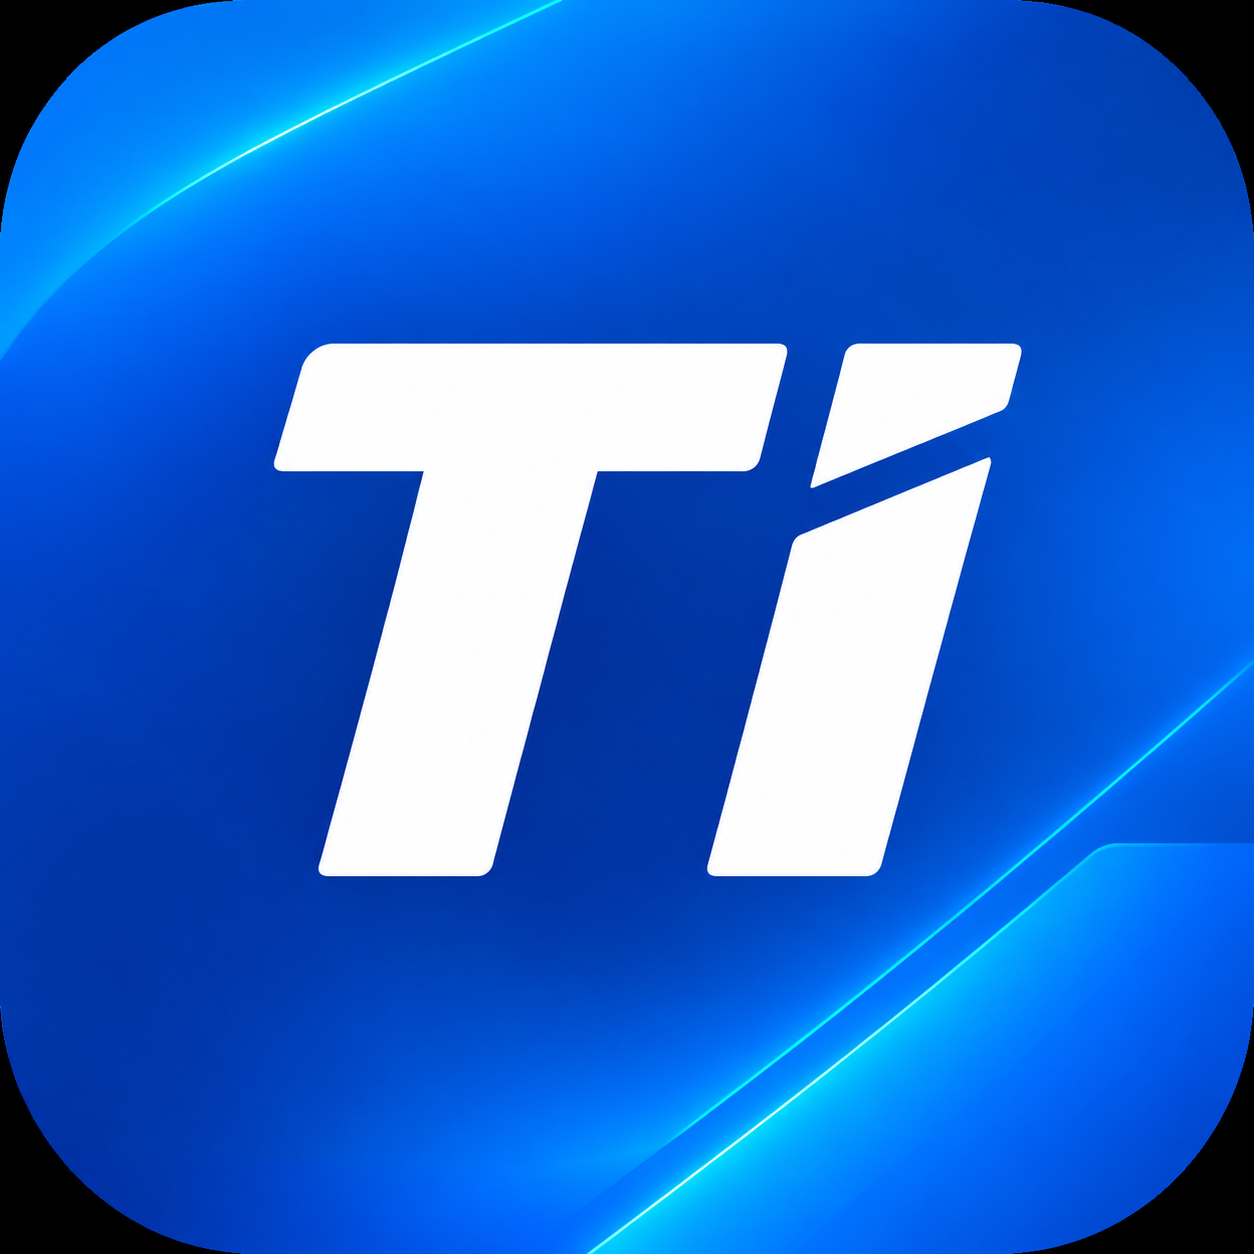
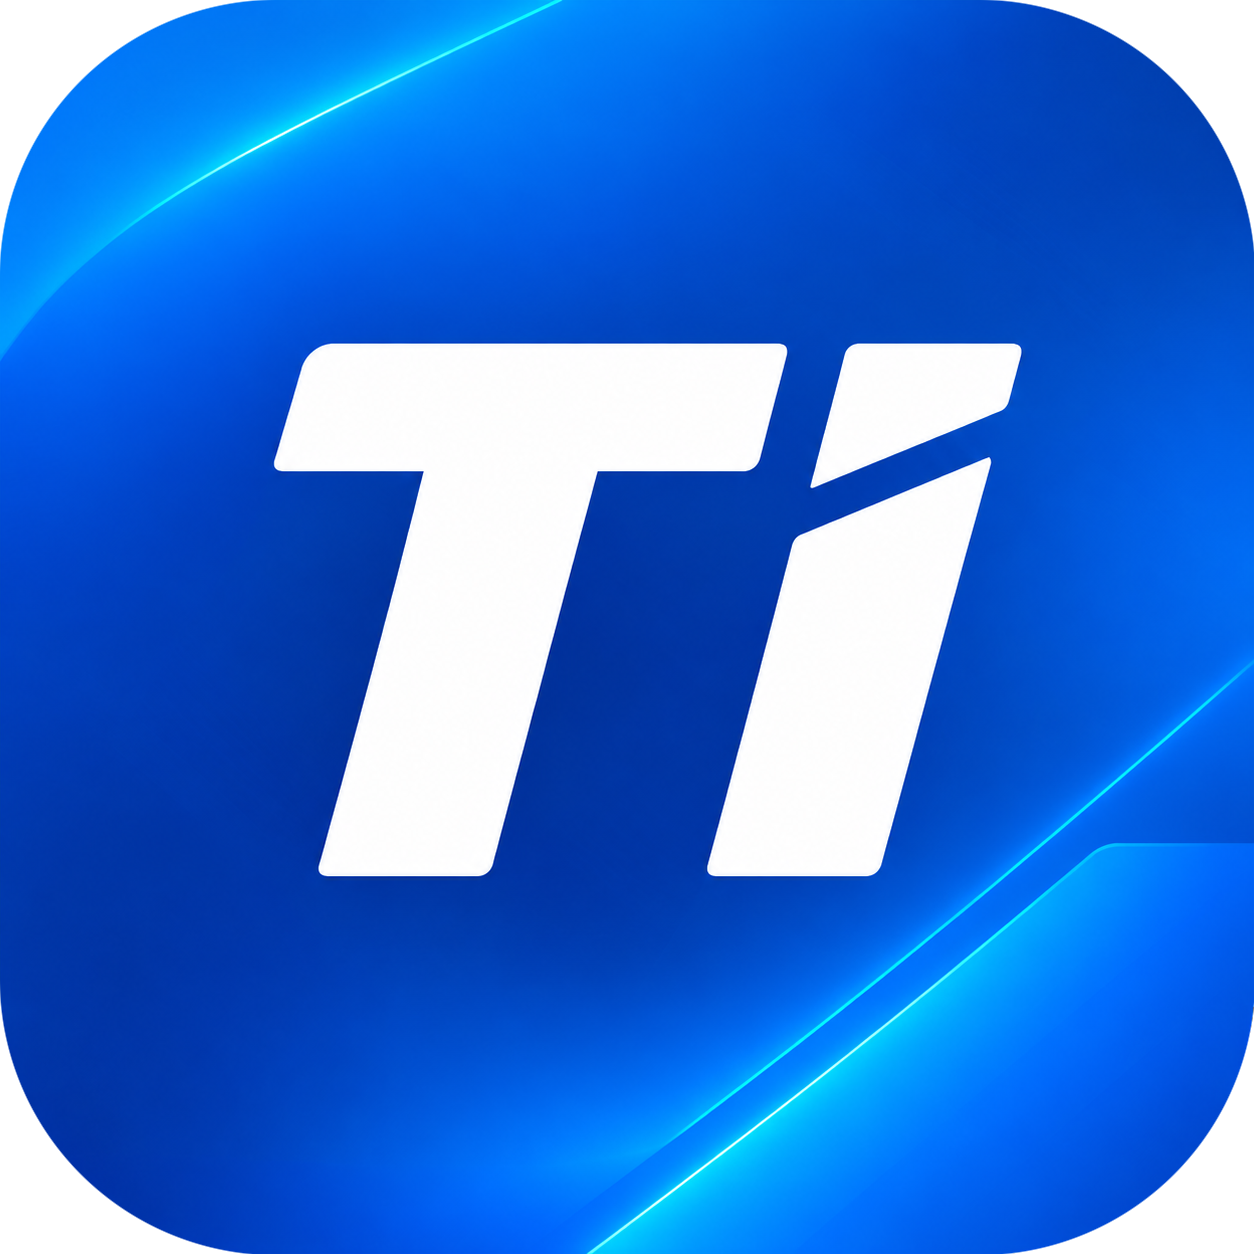
style(exportar): remover fundo preto e adicionar borda branca suave ao icone no PDF

diff --git a/src/lib/exportar.ts b/src/lib/exportar.ts
@@ -306,13 +306,54 @@ async function obterIconeBase64(): Promise<string | null> {
     img.crossOrigin = "anonymous";
     img.onload = () => {
       try {
+        const size = 160;
+        const pad = 6;
+        const innerW = size - 2 * pad;
+        const innerH = size - 2 * pad;
+        const radius = innerW * 0.22;
+
         const canvas = document.createElement("canvas");
-        const size = 96;
         canvas.width = size;
         canvas.height = size;
         const ctx = canvas.getContext("2d");
         if (ctx) {
-          ctx.drawImage(img, 0, 0, size, size);
+          ctx.clearRect(0, 0, size, size);
+
+          const desenharCaminhoArredondado = (x: number, y: number, w: number, h: number, r: number) => {
+            ctx.beginPath();
+            if (typeof ctx.roundRect === "function") {
+              ctx.roundRect(x, y, w, h, r);
+            } else {
+              ctx.moveTo(x + r, y);
+              ctx.lineTo(x + w - r, y);
+              ctx.arcTo(x + w, y, x + w, y + r, r);
+              ctx.lineTo(x + w, y + h - r);
+              ctx.arcTo(x + w, y + h, x + w - r, y + h, r);
+              ctx.lineTo(x + r, y + h);
+              ctx.arcTo(x, y, x, y + h - r, r);
+              ctx.lineTo(x, y + r);
+              ctx.arcTo(x, y, x + r, y, r);
+              ctx.closePath();
+            }
+          };
+
+          // 1. Recorte dos cantos arredondados (elimina 100% de qualquer fundo preto externo)
+          ctx.save();
+          desenharCaminhoArredondado(pad, pad, innerW, innerH, radius);
+          ctx.clip();
+          ctx.drawImage(img, pad - 1, pad - 1, innerW + 2, innerH + 2);
+          ctx.restore();
+
+          // 2. Borda branca suave com leve acabamento para destacar com elegância no cabeçalho azul
+          ctx.save();
+          desenharCaminhoArredondado(pad, pad, innerW, innerH, radius);
+          ctx.strokeStyle = "rgba(255, 255, 255, 0.92)";
+          ctx.lineWidth = 3.2;
+          ctx.shadowColor = "rgba(255, 255, 255, 0.45)";
+          ctx.shadowBlur = 3;
+          ctx.stroke();
+          ctx.restore();
+
           resolve(canvas.toDataURL("image/png"));
           return;
         }
